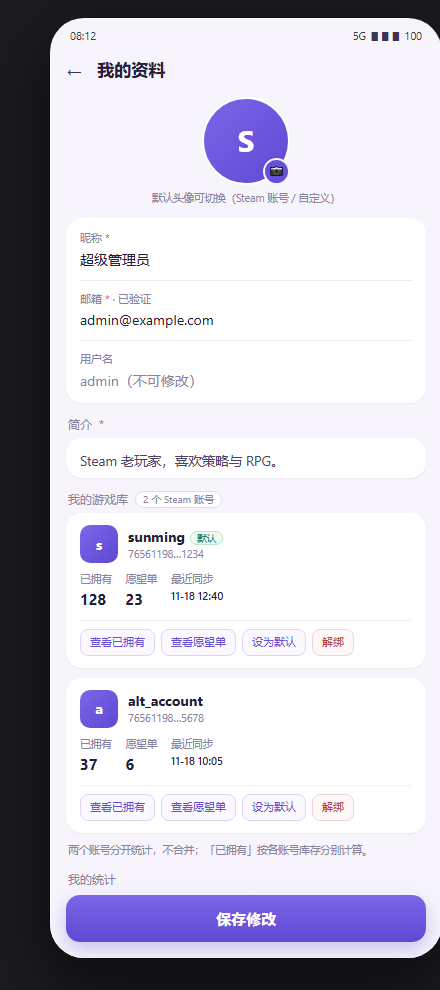
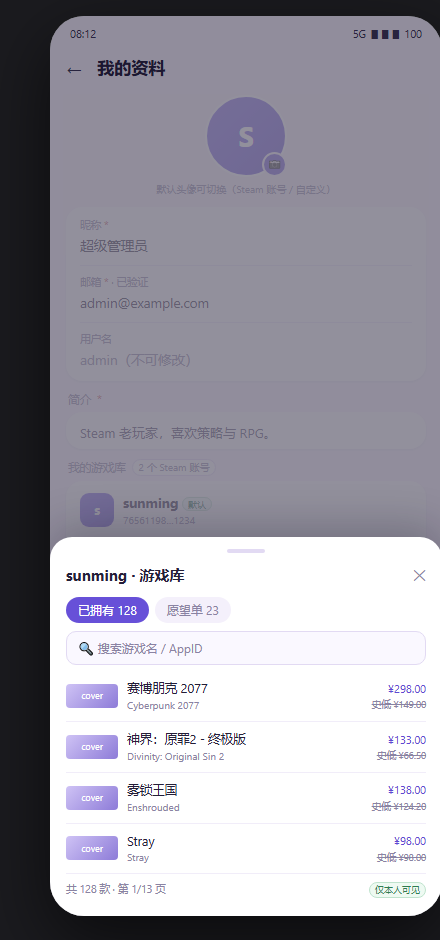
docs(design): 我的资料 demo v2——查看已拥有/愿望单弹窗（Web 对话框/Android 底部弹层）+ 史低命中统计；Web 保留最近同步、Android 去掉

diff --git a/docs/design/my-profile-web-2026-11-18.html b/docs/design/my-profile-web-2026-11-18.html
@@ -2,50 +2,64 @@
 <html lang="zh-CN">
 <head>
 <meta charset="utf-8">
-<title>我的资料（Web）demo</title>
+<title>我的资料（Web）demo v2</title>
 <style>
   :root{--bg:#0b1020;--panel:#121a30;--panel-2:#0f1728;--border:#243050;--border-2:#2e3d63;--fg:#e8edf9;--fg-muted:#93a0bf;--fg-subtle:#6d7a99;--brand:#6b7dff;--green:#3fbf7f;--green-bg:#12291f;--green-border:#2a6b4a}
   *{box-sizing:border-box}
   body{margin:0;background:var(--bg);color:var(--fg);font:13.5px/1.6 "Segoe UI","PingFang SC","Microsoft YaHei",sans-serif;display:flex;min-height:100vh}
-  .side{width:216px;flex:none;background:#0d1526;border-right:1px solid var(--border);padding:16px 12px}
+  .side{width:212px;flex:none;background:#0d1526;border-right:1px solid var(--border);padding:16px 12px}
   .brand{display:flex;align-items:center;gap:9px;margin-bottom:16px}
   .logo{width:26px;height:26px;border-radius:8px;background:linear-gradient(135deg,#6b7dff,#3e4fd8);display:flex;align-items:center;justify-content:center;font-weight:800;font-size:12px}
   .nav{color:var(--fg-muted);font-size:12.5px;display:flex;flex-direction:column;gap:2px}
   .nav div{padding:7px 10px;border-radius:8px}.nav div.on{background:#1a2440;color:#fff}
-  .main{flex:1;padding:20px 26px;min-width:0}
+  .main{flex:1;padding:18px 24px;min-width:0}
   .crumb{color:var(--fg-subtle);font-size:11.5px;margin-bottom:5px}
   h1{font-size:19px;margin:0 0 3px}
-  .sub{color:var(--fg-muted);font-size:12px;margin:0 0 14px}
-  .card{background:linear-gradient(180deg,#121b31,#101728);border:1px solid var(--border);border-radius:14px;margin-bottom:13px;overflow:hidden}
-  .card-h{display:flex;align-items:center;gap:8px;padding:11px 15px;border-bottom:1px solid var(--border);background:#0f1729;font-size:13px;font-weight:600}
+  .sub{color:var(--fg-muted);font-size:12px;margin:0 0 12px}
+  .card{background:linear-gradient(180deg,#121b31,#101728);border:1px solid var(--border);border-radius:14px;margin-bottom:12px;overflow:hidden}
+  .card-h{display:flex;align-items:center;gap:8px;padding:10px 14px;border-bottom:1px solid var(--border);background:#0f1729;font-size:13px;font-weight:600}
   .tag{font-size:10.5px;color:#b9c6e6;border:1px solid #2c3a68;background:#16203a;border-radius:999px;padding:1px 8px;font-weight:400}
   .tag.ok{color:#c8f3dd;border-color:var(--green-border);background:var(--green-bg)}
-  .body{padding:14px 15px}
-  .avatar-row{display:flex;gap:16px;align-items:flex-start;padding-bottom:13px;border-bottom:1px dashed #1c2740;margin-bottom:13px}
-  .avatar{width:80px;height:80px;border-radius:50%;background:linear-gradient(135deg,#6b7dff,#3e4fd8);display:flex;align-items:center;justify-content:center;font-size:28px;font-weight:700;color:#fff;border:2px solid #2e3d63;position:relative;flex:none}
-  .avatar::after{content:'✎';position:absolute;right:-2px;bottom:-2px;width:22px;height:22px;border-radius:50%;background:var(--brand);color:#fff;font-size:11px;display:flex;align-items:center;justify-content:center;border:2px solid #101728}
-  .btn{border:1px solid var(--border-2);background:var(--panel-2);color:var(--fg);border-radius:9px;padding:6px 12px;font-size:12.5px;cursor:pointer}
+  .body{padding:12px 14px}
+  .avatar-row{display:flex;gap:14px;align-items:flex-start;padding-bottom:12px;border-bottom:1px dashed #1c2740;margin-bottom:12px}
+  .avatar{width:74px;height:74px;border-radius:50%;background:linear-gradient(135deg,#6b7dff,#3e4fd8);display:flex;align-items:center;justify-content:center;font-size:26px;font-weight:700;color:#fff;border:2px solid #2e3d63;position:relative;flex:none}
+  .avatar::after{content:'✎';position:absolute;right:-2px;bottom:-2px;width:21px;height:21px;border-radius:50%;background:var(--brand);color:#fff;font-size:10px;display:flex;align-items:center;justify-content:center;border:2px solid #101728}
+  .btn{border:1px solid var(--border-2);background:var(--panel-2);color:var(--fg);border-radius:9px;padding:5px 12px;font-size:12.5px;cursor:pointer}
   .btn-primary{background:linear-gradient(180deg,#7287ff,#5a6bf5);border-color:#6b7dff;color:#fff;font-weight:600}
-  .btn-sm{padding:4px 10px;font-size:11.5px;border-radius:8px}
-  .btn-link{border:0;background:none;color:#9fb4ff;font-size:12px;cursor:pointer;padding:0 4px}
-  .grid2{display:grid;grid-template-columns:1fr 1fr;gap:13px}
-  .field label{display:block;font-size:11.5px;color:var(--fg-muted);margin-bottom:5px}
-  .req{color:#f08a8a;margin-left:2px}
-  .input{background:#0d1526;border:1px solid var(--border-2);border-radius:9px;padding:8px 11px;color:var(--fg);font-size:12.5px;width:100%}
+  .btn-sm{padding:3px 9px;font-size:11.5px;border-radius:8px}
+  .grid2{display:grid;grid-template-columns:1fr 1fr;gap:12px}
+  .field label{display:block;font-size:11.5px;color:var(--fg-muted);margin-bottom:4px}
+  .req{color:#f08a8a}.input{background:#0d1526;border:1px solid var(--border-2);border-radius:9px;padding:7px 10px;color:var(--fg);font-size:12.5px;width:100%}
   .input.ro{color:var(--fg-subtle);background:#0b1222}
-  .hint{color:var(--fg-subtle);font-size:10.5px;margin-top:4px}
-  textarea.input{min-height:64px;resize:vertical;font-family:inherit}
-  .acct{background:#0f1728;border:1px solid var(--border);border-radius:12px;padding:12px}
-  .acct-h{display:flex;gap:10px;align-items:center;margin-bottom:10px}
-  .acct-h .av{width:38px;height:38px;border-radius:10px;background:linear-gradient(135deg,#6b7dff,#3e4fd8);display:flex;align-items:center;justify-content:center;font-weight:700;color:#fff}
-  .acct-h b{font-size:13px}
-  .acct-h .id{color:var(--fg-subtle);font-size:10.5px}
-  .acct-stats{display:flex;gap:18px;padding:8px 0;border-top:1px dashed #1c2740}
-  .acct-stats div{font-size:11.5px;color:var(--fg-subtle)}
-  .acct-stats b{display:block;font-size:16px;color:var(--fg)}
-  .acct-ops{display:flex;gap:6px;flex-wrap:wrap;margin-top:8px;padding-top:8px;border-top:1px dashed #1c2740}
-  .mini{display:flex;gap:10px;color:var(--fg-muted);font-size:11.5px;align-items:center}
-  .foot{display:flex;justify-content:flex-end;gap:10px;position:sticky;bottom:0;background:linear-gradient(180deg,#0b1020cc,#0b1020);padding:12px 0 4px}
+  .hint{color:var(--fg-subtle);font-size:10.5px;margin-top:3px}
+  textarea.input{min-height:56px;resize:vertical;font-family:inherit}
+  .acct{background:#0f1728;border:1px solid var(--border);border-radius:12px;padding:11px}
+  .acct-h{display:flex;gap:10px;align-items:center;margin-bottom:8px}
+  .acct-h .av{width:34px;height:34px;border-radius:9px;background:linear-gradient(135deg,#6b7dff,#3e4fd8);display:flex;align-items:center;justify-content:center;font-weight:700;color:#fff;font-size:13px}
+  .acct-h b{font-size:12.5px}.acct-h .id{color:var(--fg-subtle);font-size:10px}
+  .acct-stats{display:flex;gap:16px;padding:7px 0;border-top:1px dashed #1c2740}
+  .acct-stats div{font-size:11px;color:var(--fg-subtle)}.acct-stats b{display:block;font-size:15px;color:var(--fg)}
+  .acct-ops{display:flex;gap:6px;flex-wrap:wrap;margin-top:6px;padding-top:7px;border-top:1px dashed #1c2740}
+  .statsline{display:flex;gap:16px;color:var(--fg-muted);font-size:12px;flex-wrap:wrap}
+  .statsline b{color:#c9d6ff}
+  .foot{display:flex;justify-content:flex-end;gap:10px;padding:8px 0 2px}
+  /* 弹窗 */
+  .overlay{position:fixed;inset:0;background:rgba(4,8,18,.6);display:flex;align-items:center;justify-content:center;padding:18px}
+  .dialog{width:720px;max-width:94vw;background:linear-gradient(180deg,#131c31,#101728);border:1px solid var(--border-2);border-radius:14px;overflow:hidden;box-shadow:0 24px 80px rgba(0,0,0,.55)}
+  .d-head{display:flex;align-items:center;gap:10px;padding:11px 15px;border-bottom:1px solid var(--border);background:#0f1729}
+  .d-head h3{font-size:14px;margin:0;flex:1}
+  .d-head .x{color:var(--fg-subtle)}
+  .d-tabs{display:flex;gap:4px;padding:8px 14px 0;border-bottom:1px solid var(--border)}
+  .d-tab{padding:6px 12px;font-size:12.5px;color:var(--fg-muted);border-bottom:2px solid transparent;cursor:pointer}
+  .d-tab.on{color:#fff;border-bottom-color:var(--brand);font-weight:600}
+  .d-toolbar{display:flex;gap:8px;padding:10px 14px}
+  .d-toolbar .search{flex:1;background:#0d1526;border:1px solid var(--border-2);border-radius:8px;padding:6px 10px;color:var(--fg-subtle);font-size:11.5px}
+  .grow{display:flex;align-items:center;gap:10px;padding:8px 14px;border-top:1px solid #1c2740}
+  .gcover{width:56px;height:26px;border-radius:4px;background:linear-gradient(135deg,#2c3a68,#1b2440);display:flex;align-items:center;justify-content:center;font-size:10px;color:#9fb0d8;flex:none}
+  .gname{flex:1;min-width:0;font-size:12.5px}.gname .en{color:var(--fg-subtle);font-size:10.5px}
+  .gp{font-size:11.5px;color:#c9d6ff;white-space:nowrap}.gp s{color:var(--fg-subtle);margin-left:6px}
+  .d-foot{display:flex;justify-content:space-between;align-items:center;padding:9px 14px;border-top:1px solid var(--border);background:#0e1626;color:var(--fg-subtle);font-size:11.5px}
+  .pager{display:flex;gap:5px}.pg{border:1px solid var(--border-2);border-radius:6px;padding:1px 8px}
 </style>
 </head>
 <body>
@@ -56,27 +70,25 @@
   <div class="main">
     <div class="crumb">管理中心 / 账号与服务 / 我的资料</div>
     <h1>我的资料</h1>
-    <p class="sub">仅本人可见 · 数据只来自你自己的账号；管理员同样只能查看/修改自己的资料。</p>
+    <p class="sub">仅本人可见 · 管理员同样只能查看/修改自己的资料。</p>
 
     <div class="card">
-      <div class="card-h">基本信息 <span class="tag">带 <span style="color:#f08a8a">*</span> 为必填</span><span class="tag">管理员昵称/简介可空</span></div>
+      <div class="card-h">基本信息 <span class="tag">带 <span style="color:#f08a8a">*</span> 必填</span><span class="tag">管理员昵称/简介可空</span></div>
       <div class="body">
         <div class="avatar-row">
           <div class="avatar">S</div>
           <div style="flex:1">
             <div style="display:flex;gap:8px;align-items:center"><button class="btn btn-sm">更换头像</button><button class="btn btn-sm">移除</button><span class="hint">默认取 Steam 账号头像；可选任一账号或自定义</span></div>
-            <div style="display:flex;gap:8px;margin-top:8px">
-              <span class="tag ok">Steam · sunming（默认）</span><span class="tag">Steam · alt_account</span><span class="tag">自定义</span>
-            </div>
+            <div style="display:flex;gap:8px;margin-top:7px"><span class="tag ok">Steam · sunming（默认）</span><span class="tag">Steam · alt_account</span><span class="tag">自定义</span></div>
           </div>
         </div>
         <div class="grid2">
           <div class="field"><label>昵称<span class="req">*</span></label><div class="input">超级管理员</div><div class="hint">2–20 字</div></div>
-          <div class="field"><label>邮箱<span class="req">*</span></label><div class="input">admin@example.com <span class="tag ok">已验证</span></div><div class="hint">必填；找回密码依赖它（更换邮箱在弹窗里）</div></div>
+          <div class="field"><label>邮箱<span class="req">*</span></label><div class="input">admin@example.com <span class="tag ok">已验证</span></div><div class="hint">必填；找回密码依赖它</div></div>
           <div class="field"><label>用户名（登录名）</label><div class="input ro">admin</div><div class="hint">不可修改</div></div>
           <div class="field"><label>角色 / 注册时间</label><div class="input ro">管理员 · 2026-08-18</div></div>
         </div>
-        <div class="field" style="margin-top:12px"><label>简介<span class="req">*</span></label><textarea class="input">Steam 老玩家，喜欢策略与 RPG。</textarea><div class="hint">1–200 字</div></div>
+        <div class="field" style="margin-top:10px"><label>简介<span class="req">*</span></label><textarea class="input">Steam 老玩家，喜欢策略与 RPG。</textarea><div class="hint">1–200 字</div></div>
       </div>
     </div>
 
@@ -86,28 +98,41 @@
         <div class="grid2">
           <div class="acct">
             <div class="acct-h"><div class="av">s</div><div><b>sunming <span class="tag ok">默认</span></b><div class="id">SteamID 76561198…1234</div></div></div>
-            <div class="acct-stats"><div>已拥有<b>128</b></div><div>愿望单<b>23</b></div><div>最近同步<b style="font-size:12px;font-weight:500">11-18 12:40</b></div></div>
+            <div class="acct-stats"><div>已拥有<b>128</b></div><div>愿望单<b>23</b></div><div>最近同步<b style="font-size:11.5px;font-weight:500">11-18 12:40</b></div></div>
             <div class="acct-ops"><button class="btn btn-sm">查看已拥有</button><button class="btn btn-sm">查看愿望单</button><button class="btn btn-sm">设为默认</button><button class="btn btn-sm">解绑</button></div>
           </div>
           <div class="acct">
             <div class="acct-h"><div class="av">a</div><div><b>alt_account</b><div class="id">SteamID 76561198…5678</div></div></div>
-            <div class="acct-stats"><div>已拥有<b>37</b></div><div>愿望单<b>6</b></div><div>最近同步<b style="font-size:12px;font-weight:500">11-18 10:05</b></div></div>
+            <div class="acct-stats"><div>已拥有<b>37</b></div><div>愿望单<b>6</b></div><div>最近同步<b style="font-size:11.5px;font-weight:500">11-18 10:05</b></div></div>
             <div class="acct-ops"><button class="btn btn-sm">查看已拥有</button><button class="btn btn-sm">查看愿望单</button><button class="btn btn-sm">设为默认</button><button class="btn btn-sm">解绑</button></div>
           </div>
         </div>
-        <p class="hint">两个账号的数据<strong>分开显示、不合并</strong>；"已拥有"按各账号库存分别统计。</p>
+        <p class="hint">两个账号<strong>分开显示、不合并</strong>；「已拥有」按各账号库存分别统计。</p>
       </div>
     </div>
 
     <div class="card">
-      <div class="card-h">我的统计 <span class="tag">仅本人可见</span></div>
+      <div class="card-h">我的统计 <span class="tag ok">仅本人可见</span></div>
       <div class="body">
-        <div class="mini"><span>已拥有合计 <b style="color:#c9d6ff">165</b> 款</span><span>·</span><span>愿望单合计 <b style="color:#c9d6ff">29</b> 款</span><span>·</span><span>本站愿望单 <b style="color:#c9d6ff">12</b> 款</span><span>·</span><span>到价提醒 <b style="color:#c9d6ff">5</b> 条</span></div>
+        <div class="statsline"><span>已拥有合计 <b>165</b></span><span>愿望单合计 <b>29</b></span><span>本站愿望单 <b>12</b></span><span>到价提醒 <b>5</b></span><span>史低命中 <b>8</b></span></div>
       </div>
     </div>
 
     <div class="foot"><button class="btn">取消</button><button class="btn btn-primary">保存修改</button></div>
   </div>
+
+  <!-- 「查看已拥有/愿望单」弹窗 demo -->
+  <div class="overlay">
+    <div class="dialog">
+      <div class="d-head"><h3>sunming · 游戏库</h3><span class="tag">SteamID 76561198…1234</span><span class="x">✕</span></div>
+      <div class="d-tabs"><div class="d-tab on">已拥有 128</div><div class="d-tab">愿望单 23</div></div>
+      <div class="d-toolbar"><div class="search">🔍 搜索游戏名 / AppID</div><span class="tag">仅本人可见</span></div>
+      <div class="grow"><div class="gcover">cover</div><div class="gname">赛博朋克 2077<div class="en">Cyberpunk 2077</div></div><div class="gp">¥298.00<s>史低 ¥149.00</s></div><span class="tag">已拥有</span></div>
+      <div class="grow"><div class="gcover">cover</div><div class="gname">神界：原罪2 - 终极版<div class="en">Divinity: Original Sin 2</div></div><div class="gp">¥133.00<s>史低 ¥66.50</s></div><span class="tag">已拥有</span></div>
+      <div class="grow"><div class="gcover">cover</div><div class="gname">雾锁王国<div class="en">Enshrouded</div></div><div class="gp">¥138.00<s>史低 ¥124.20</s></div><span class="tag">已拥有</span></div>
+      <div class="grow"><div class="gcover">cover</div><div class="gname">Stray<div class="en">Stray</div></div><div class="gp">¥98.00<s>史低 ¥98.00</s></div><span class="tag">已拥有</span></div>
+      <div class="d-foot"><span>共 128 款 · 第 1/13 页</span><div class="pager"><span class="pg">上一页</span><span class="pg" style="background:#1a2440;color:#fff">1</span><span class="pg">2</span><span class="pg">3</span><span class="pg">下一页</span></div></div>
+    </div>
+  </div>
 </body>
 </html>
-

diff --git a/docs/design/my-profile-android-2026-11-18.html b/docs/design/my-profile-android-2026-11-18.html
@@ -2,39 +2,53 @@
 <html lang="zh-CN">
 <head>
 <meta charset="utf-8">
-<title>我的资料（Android）demo</title>
+<title>我的资料（Android）demo v2</title>
 <style>
   *{box-sizing:border-box}
-  body{margin:0;background:#1b1b1f;display:flex;justify-content:center;padding:18px;font:14px/1.5 "Segoe UI","PingFang SC","Microsoft YaHei",sans-serif}
-  .phone{width:392px;height:940px;background:#f7f5fb;border-radius:34px;overflow:hidden;box-shadow:0 24px 70px rgba(0,0,0,.6);position:relative}
+  body{margin:0;background:#1b1b1f;display:flex;justify-content:center;padding:16px;font:14px/1.5 "Segoe UI","PingFang SC","Microsoft YaHei",sans-serif}
+  .phone{width:392px;height:900px;background:#f7f5fb;border-radius:34px;overflow:hidden;box-shadow:0 24px 70px rgba(0,0,0,.6);position:relative}
   .status{display:flex;justify-content:space-between;padding:10px 20px 2px;color:#3a3550;font-size:11px}
   .bar{display:flex;align-items:center;gap:14px;padding:8px 16px 10px}
   .back{font-size:20px;color:#3a3550}.bar h1{font-size:17px;margin:0;color:#241f38;font-weight:600}
-  .content{padding:0 16px 92px;height:calc(100% - 74px);overflow:auto}
-  .avatar-wrap{display:flex;flex-direction:column;align-items:center;gap:6px;margin:2px 0 12px}
-  .avatar{width:88px;height:88px;border-radius:50%;background:linear-gradient(135deg,#7b65e8,#5f49d3);display:flex;align-items:center;justify-content:center;font-size:30px;font-weight:700;color:#fff;border:2px solid #fff;position:relative}
-  .avatar .cam{position:absolute;right:-2px;bottom:-2px;width:27px;height:27px;border-radius:50%;background:#6750d8;color:#fff;display:flex;align-items:center;justify-content:center;font-size:11px;border:2px solid #f7f5fb}
-  .tip{font-size:10.5px;color:#8a83a3}
-  .card{background:#fff;border-radius:16px;padding:2px 14px;margin-bottom:11px;box-shadow:0 1px 2px rgba(36,31,56,.06)}
-  .row{padding:10px 0;border-bottom:1px solid #efeaf7}
-  .row:last-child{border-bottom:0}
-  .row .k{font-size:11px;color:#8a83a3;margin-bottom:2px}
-  .row .v{font-size:14px;color:#241f38}.row .v.muted{color:#8a83a3}
+  .content{padding:0 16px;height:calc(100% - 74px);overflow:auto;opacity:.4}
+  .avatar-wrap{display:flex;flex-direction:column;align-items:center;gap:5px;margin:2px 0 10px}
+  .avatar{width:82px;height:82px;border-radius:50%;background:linear-gradient(135deg,#7b65e8,#5f49d3);display:flex;align-items:center;justify-content:center;font-size:28px;font-weight:700;color:#fff;border:2px solid #fff;position:relative}
+  .avatar .cam{position:absolute;right:-2px;bottom:-2px;width:25px;height:25px;border-radius:50%;background:#6750d8;color:#fff;display:flex;align-items:center;justify-content:center;font-size:10px;border:2px solid #f7f5fb}
+  .tip{font-size:10px;color:#8a83a3}
+  .card{background:#fff;border-radius:16px;padding:2px 14px;margin-bottom:10px;box-shadow:0 1px 2px rgba(36,31,56,.06)}
+  .row{padding:9px 0;border-bottom:1px solid #efeaf7}.row:last-child{border-bottom:0}
+  .row .k{font-size:10.5px;color:#8a83a3;margin-bottom:2px}.row .v{font-size:13.5px;color:#241f38}.row .v.muted{color:#8a83a3}
   .req{color:#d05c5c}
-  .sec{font-size:12px;color:#8a83a3;margin:12px 2px 5px;display:flex;align-items:center;gap:7px}
-  .sec .cnt{font-size:10px;border:1px solid #e2daf3;border-radius:999px;padding:0 7px;background:#fff;color:#8a83a3}
-  .acct{background:#fff;border-radius:16px;padding:12px 14px;margin-bottom:10px;box-shadow:0 1px 2px rgba(36,31,56,.06)}
-  .acct-h{display:flex;gap:10px;align-items:center}
-  .acct-h .av{width:38px;height:38px;border-radius:10px;background:linear-gradient(135deg,#7b65e8,#5f49d3);color:#fff;display:flex;align-items:center;justify-content:center;font-weight:700}
-  .acct-h b{font-size:14px;color:#241f38}.acct-h .id{font-size:10.5px;color:#8a83a3}
-  .def{font-size:9.5px;color:#2f7d52;border:1px solid #bfe3cd;background:#eefaf2;border-radius:999px;padding:0 6px;margin-left:5px}
-  .stats{display:flex;gap:14px;padding:9px 0 2px}
-  .stats div{font-size:10.5px;color:#8a83a3}.stats b{display:block;font-size:15px;color:#241f38}
-  .ops{display:flex;gap:6px;flex-wrap:wrap;padding-top:8px;border-top:1px solid #f1edf9;margin-top:8px}
-  .op{font-size:11px;color:#6750d8;padding:4px 9px;border:1px solid #ded4f7;border-radius:8px;background:#fbf9ff}
+  .sec{font-size:11.5px;color:#8a83a3;margin:10px 2px 4px;display:flex;align-items:center;gap:6px}
+  .sec .cnt{font-size:10px;border:1px solid #e2daf3;border-radius:999px;padding:0 6px;background:#fff}
+  .acct{background:#fff;border-radius:16px;padding:11px 14px;margin-bottom:9px;box-shadow:0 1px 2px rgba(36,31,56,.06)}
+  .acct-h{display:flex;gap:9px;align-items:center}
+  .acct-h .av{width:34px;height:34px;border-radius:9px;background:linear-gradient(135deg,#7b65e8,#5f49d3);color:#fff;display:flex;align-items:center;justify-content:center;font-weight:700;font-size:13px}
+  .acct-h b{font-size:13.5px;color:#241f38}.acct-h .id{font-size:10px;color:#8a83a3}
+  .def{font-size:9px;color:#2f7d52;border:1px solid #bfe3cd;background:#eefaf2;border-radius:999px;padding:0 5px;margin-left:4px}
+  .stats{display:flex;gap:16px;padding:8px 0 2px}
+  .stats div{font-size:10px;color:#8a83a3}.stats b{display:block;font-size:14px;color:#241f38}
+  .ops{display:flex;gap:6px;flex-wrap:wrap;padding-top:7px;border-top:1px solid #f1edf9;margin-top:7px}
+  .op{font-size:10.5px;color:#6750d8;padding:3px 8px;border:1px solid #ded4f7;border-radius:8px;background:#fbf9ff}
   .op.warn{color:#b4433f;border-color:#f2d3d2;background:#fff8f8}
-  .save-bar{position:absolute;left:0;right:0;bottom:0;padding:10px 16px 16px;background:linear-gradient(180deg,rgba(247,245,251,0),#f7f5fb 30%)}
-  .save{width:100%;border:0;border-radius:14px;padding:13px;font-size:15px;font-weight:600;color:#fff;background:linear-gradient(180deg,#7b65e8,#5f49d3);box-shadow:0 8px 20px rgba(95,73,211,.3)}
+  .statsline{font-size:12.5px;color:#4a4363;line-height:1.9}
+  /* 底部弹层 */
+  .mask{position:absolute;inset:0;background:rgba(20,16,40,.45)}
+  .sheet{position:absolute;left:0;right:0;bottom:0;background:#fff;border-radius:22px 22px 0 0;padding:12px 16px 18px;box-shadow:0 -10px 40px rgba(20,16,40,.25);max-height:82%;display:flex;flex-direction:column}
+  .grab{width:38px;height:4px;border-radius:999px;background:#e2daf3;margin:0 auto 10px}
+  .sh-head{display:flex;align-items:center;gap:8px;margin-bottom:6px}
+  .sh-head h3{font-size:15px;margin:0;color:#241f38;flex:1}
+  .sh-head .x{color:#8a83a3;font-size:16px}
+  .tabs{display:flex;gap:6px;margin:4px 0 8px}
+  .tab{font-size:12px;color:#8a83a3;padding:4px 12px;border-radius:999px;background:#f4f0fb}
+  .tab.on{background:#6750d8;color:#fff}
+  .sh-search{background:#faf8ff;border:1px solid #e2daf3;border-radius:10px;padding:7px 11px;font-size:12px;color:#8a83a3;margin-bottom:6px}
+  .grow{display:flex;align-items:center;gap:9px;padding:8px 0;border-bottom:1px solid #f1edf9}
+  .gcover{width:52px;height:24px;border-radius:4px;background:linear-gradient(135deg,#cfc3f5,#8d7bd8);display:flex;align-items:center;justify-content:center;font-size:9px;color:#fff;flex:none}
+  .gname{flex:1;min-width:0;font-size:12.5px;color:#241f38}.gname .en{font-size:10px;color:#8a83a3}
+  .gp{font-size:11px;color:#5f49d3;text-align:right}.gp s{display:block;color:#8a83a3;font-size:9.5px}
+  .badge{font-size:9px;color:#2f7d52;border:1px solid #bfe3cd;background:#eefaf2;border-radius:999px;padding:0 5px}
+  .sh-foot{display:flex;justify-content:space-between;align-items:center;font-size:10.5px;color:#8a83a3;padding-top:8px}
 </style>
 </head>
 <body>
@@ -43,33 +57,40 @@
     <div class="bar"><span class="back">←</span><h1>我的资料</h1></div>
     <div class="content">
       <div class="avatar-wrap"><div class="avatar">S<span class="cam">📷</span></div><span class="tip">默认头像可切换（Steam 账号 / 自定义）</span></div>
-
       <div class="card">
         <div class="row"><div class="k">昵称 <span class="req">*</span></div><div class="v">超级管理员</div></div>
         <div class="row"><div class="k">邮箱 <span class="req">*</span> · 已验证</div><div class="v">admin@example.com</div></div>
         <div class="row"><div class="k">用户名</div><div class="v muted">admin（不可修改）</div></div>
       </div>
-
       <div class="sec">简介 <span class="req">*</span></div>
-      <div class="card"><div class="row" style="padding-bottom:6px"><div class="v" style="font-size:13.5px;color:#4a4363">Steam 老玩家，喜欢策略与 RPG。</div></div></div>
-
+      <div class="card"><div class="row" style="padding-bottom:5px"><div class="v" style="font-size:13px;color:#4a4363">Steam 老玩家，喜欢策略与 RPG。</div></div></div>
       <div class="sec">我的游戏库 <span class="cnt">2 个 Steam 账号</span></div>
       <div class="acct">
         <div class="acct-h"><div class="av">s</div><div><b>sunming</b><span class="def">默认</span><div class="id">76561198…1234</div></div></div>
-        <div class="stats"><div>已拥有<b>128</b></div><div>愿望单<b>23</b></div><div>最近同步<b style="font-size:11px;font-weight:500">11-18 12:40</b></div></div>
+        <div class="stats"><div>已拥有<b>128</b></div><div>愿望单<b>23</b></div></div>
         <div class="ops"><span class="op">查看已拥有</span><span class="op">查看愿望单</span><span class="op">设为默认</span><span class="op warn">解绑</span></div>
       </div>
       <div class="acct">
         <div class="acct-h"><div class="av">a</div><div><b>alt_account</b><div class="id">76561198…5678</div></div></div>
-        <div class="stats"><div>已拥有<b>37</b></div><div>愿望单<b>6</b></div><div>最近同步<b style="font-size:11px;font-weight:500">11-18 10:05</b></div></div>
+        <div class="stats"><div>已拥有<b>37</b></div><div>愿望单<b>6</b></div></div>
         <div class="ops"><span class="op">查看已拥有</span><span class="op">查看愿望单</span><span class="op">设为默认</span><span class="op warn">解绑</span></div>
       </div>
-      <p style="font-size:10.5px;color:#8a83a3;margin:2px 2px 10px">两个账号分开统计，不合并；「已拥有」按各账号库存分别计算。</p>
-
       <div class="sec">我的统计</div>
-      <div class="card"><div class="row"><div class="v" style="font-size:13px">已拥有 165 · 愿望单 29 · 本站愿望单 12 · 到价提醒 5</div></div></div>
+      <div class="card"><div class="row"><div class="v" style="font-size:12.5px;line-height:1.9">已拥有 165 · 愿望单 29 · 本站愿望单 12 · 到价提醒 5 · 史低命中 8</div></div></div>
     </div>
-    <div class="save-bar"><button class="save">保存修改</button></div>
+
+    <div class="mask"></div>
+    <div class="sheet">
+      <div class="grab"></div>
+      <div class="sh-head"><h3>sunming · 游戏库</h3><span class="x">✕</span></div>
+      <div class="tabs"><span class="tab on">已拥有 128</span><span class="tab">愿望单 23</span></div>
+      <div class="sh-search">🔍 搜索游戏名 / AppID</div>
+      <div class="grow"><div class="gcover">cover</div><div class="gname">赛博朋克 2077<div class="en">Cyberpunk 2077</div></div><div class="gp">¥298.00<s>史低 ¥149.00</s></div></div>
+      <div class="grow"><div class="gcover">cover</div><div class="gname">神界：原罪2 - 终极版<div class="en">Divinity: Original Sin 2</div></div><div class="gp">¥133.00<s>史低 ¥66.50</s></div></div>
+      <div class="grow"><div class="gcover">cover</div><div class="gname">雾锁王国<div class="en">Enshrouded</div></div><div class="gp">¥138.00<s>史低 ¥124.20</s></div></div>
+      <div class="grow"><div class="gcover">cover</div><div class="gname">Stray<div class="en">Stray</div></div><div class="gp">¥98.00<s>史低 ¥98.00</s></div></div>
+      <div class="sh-foot"><span>共 128 款 · 第 1/13 页</span><span class="badge">仅本人可见</span></div>
+    </div>
   </div>
 </body>
 </html>

diff --git a/docs/USER-PROFILE-EDIT.md b/docs/USER-PROFILE-EDIT.md
@@ -31,6 +31,9 @@
 | 10 | **必填项**：昵称、简介、**邮箱必填**；**管理员豁免**：昵称/简介可空，邮箱仍必填。老用户邮箱为空时不强制跳补全，保存/使用邮箱功能时提示。 |
 | 11 | **多 Steam 账号用卡片展示**：每个绑定账号一张卡（头像/昵称/SteamID/已拥有数/愿望单数/最近同步时间/操作），不合并成一行。 |
 | 12 | 资料页下半部展示**我的游戏库与统计**（仅本人）：每账号卡片 + 本站愿望单/到价提醒数量汇总。 |
+| 13 | **查看已拥有/愿望单用弹窗**：Web = 对话框（标题含账号、tab 已拥有/愿望单、搜索、列表、分页）；Android = 底部弹层（同结构）。 |
+| 14 | 统计口径：已拥有合计 / 愿望单合计 / 本站愿望单 / 到价提醒 / **史低命中数**（5 项）。 |
+| 15 | 账号卡片的「最近同步时间」：**Web 显示，Android 不显示**。 |
 
 ## 3. 改动落点
 
@@ -59,6 +62,10 @@
 | Android 头像 + 三个头像来源 chips | 同 Web | 选中态与保存一致 |
 | Android Steam 卡（解绑/设为默认/新增） | 同 Web | 操作后列表刷新；新增打开浏览器绑定 |
 | 越权 | 安全 | A 改 B 的资料 → 403；直接传 `userId` 被忽略 |
+| 我的资料（仅本人） | 权限/无入口 | 无他人资料入口；管理员只能改自己 |
+| 多账号卡片 | 每账号一卡 | Web 有最近同步、Android 无；两卡数据分开 |
+| 查看已拥有/愿望单 | 弹窗形态 | Web 对话框 / Android 底部弹层；均有搜索+分页 |
+| 统计 | 5 项 | 已拥有/愿望单/本站愿望单/到价提醒/史低命中 |
 | 通用 | `npm test` / `frontend:build` / `scan` | 全绿；App 构建 + 模拟器验证 |
 
 ## 5. 二期（记录）
@@ -66,5 +73,7 @@
 - 更换邮箱（验证码 + 双邮箱通知）；
 - 头像裁剪交互（服务端裁剪 vs 客户端裁剪的最终形态）；
 - 个人主页（他人可看的公开页：头像/昵称/简介 + 愿望单公开度）。
+
+
 
 
